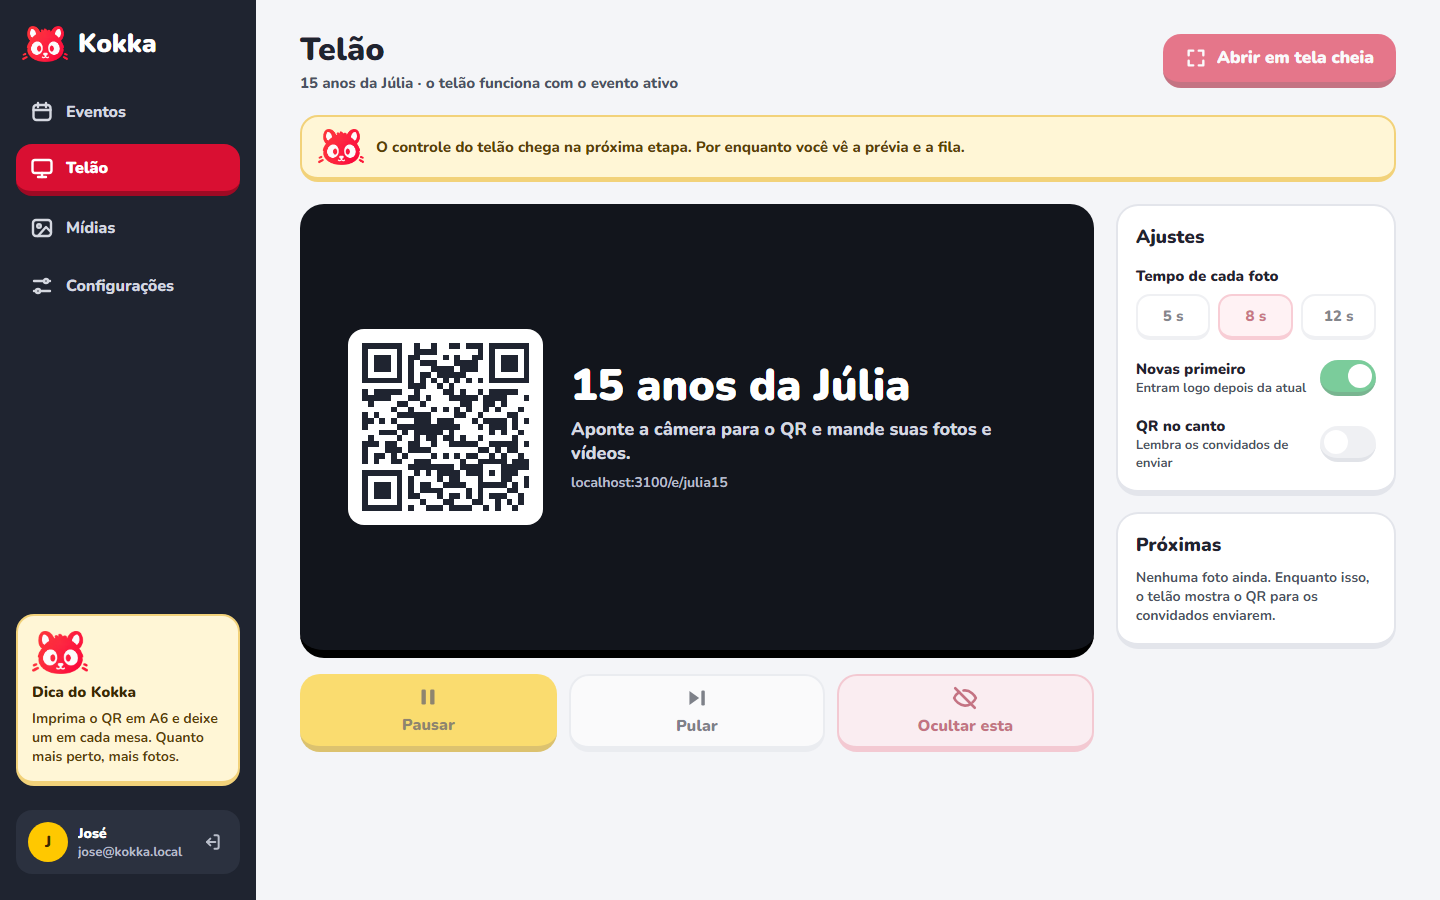
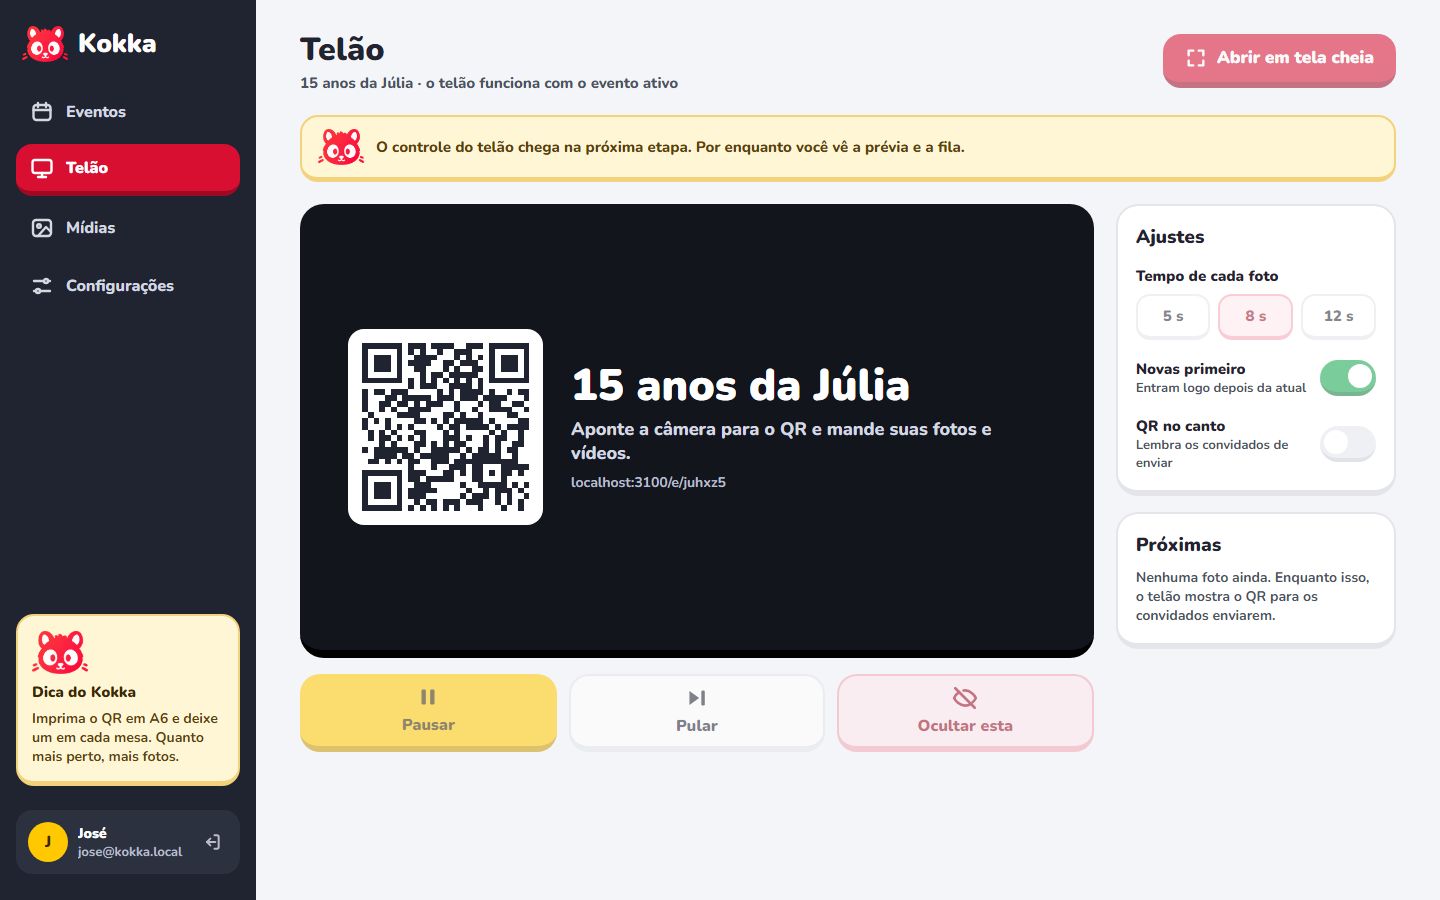
fix(web): use valid slugs in the design shots seed
Guest links only open for 6-character slugs without i, l, o, 0 or 1, so the seeded events
showed links and QR codes that led to a 404. The seed now uses valid slugs and refuses invalid
ones; the shots that show a link or QR are regenerated.

Changed region(s): [[0.25, 0.3733, 0.375, 0.5911], [0.4688, 0.5289, 0.5, 0.56]]

diff --git a/apps/web/scripts/design-shots/seed.ts b/apps/web/scripts/design-shots/seed.ts
@@ -13,6 +13,7 @@ import {
   type NewEvent,
   type NewMedia,
 } from "@kokka/db";
+import { isValidSlug } from "@kokka/shared";
 import { TILE_TONES, tileTone } from "../../src/lib/media-tone.ts";
 
 /** The only database this seed may wipe; anything else is refused. */
@@ -130,7 +131,7 @@ export async function seedShots(databaseUrl: string, now = new Date()): Promise<
 
     const rows: NewEvent[] = [
       {
-        slug: "anapedro",
+        slug: "anapdr",
         name: "Ana & Pedro",
         subtitle: "Casamento",
         startsAt: liveStart,
@@ -140,7 +141,7 @@ export async function seedShots(databaseUrl: string, now = new Date()): Promise<
         createdAt: daysFrom(liveStart, -12),
       },
       {
-        slug: "julia15",
+        slug: "juhxz5",
         name: "15 anos da Júlia",
         subtitle: "15 anos",
         startsAt: draftStart,
@@ -150,7 +151,7 @@ export async function seedShots(databaseUrl: string, now = new Date()): Promise<
         createdAt: daysFrom(liveStart, -1),
       },
       {
-        slug: "bodasprata",
+        slug: "bdsprt",
         name: "Bodas de Prata",
         subtitle: "Bodas",
         startsAt: closedStart,
@@ -162,7 +163,7 @@ export async function seedShots(databaseUrl: string, now = new Date()): Promise<
         createdAt: daysFrom(liveStart, -30),
       },
       {
-        slug: "formaturamed",
+        slug: "frmmed",
         name: "Formatura Med 2026",
         subtitle: "Formatura",
         startsAt: expiredStart,
@@ -174,6 +175,10 @@ export async function seedShots(databaseUrl: string, now = new Date()): Promise<
         createdAt: daysFrom(liveStart, -60),
       },
     ];
+    // Guest links only open for real slugs (6 characters, no i, l, o, 0 or 1).
+    const invalid = rows.filter((row) => !isValidSlug(row.slug));
+    if (invalid.length)
+      throw new Error(`Invalid seed slugs: ${invalid.map((row) => row.slug).join(", ")}`);
     const inserted = await db.insert(events).values(rows).returning({ id: events.id });
     const [live, draft, closed, expired] = inserted.map((row) => row.id);
     if (!live || !draft || !closed || !expired) throw new Error("Seed did not insert 4 events");
